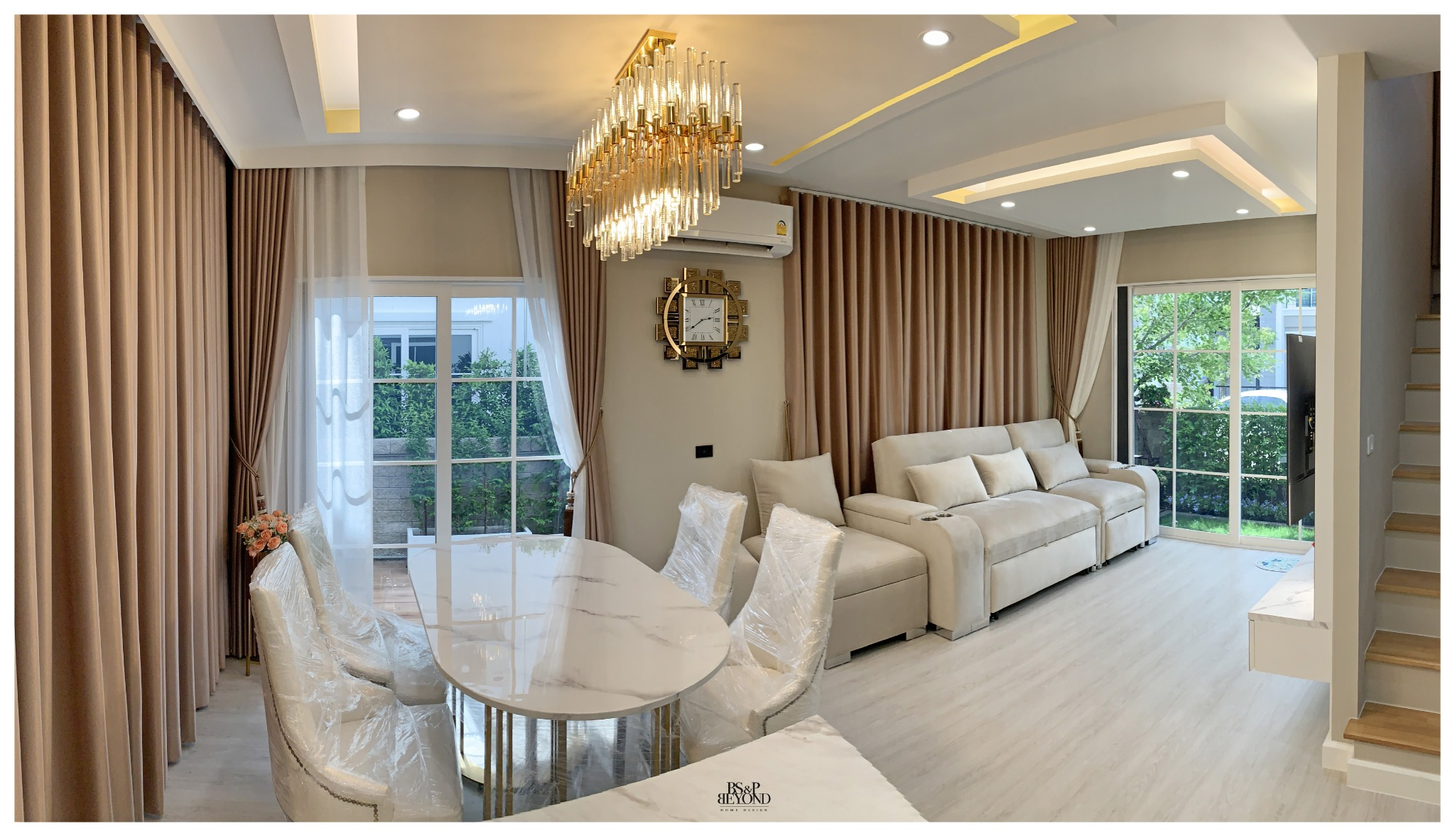
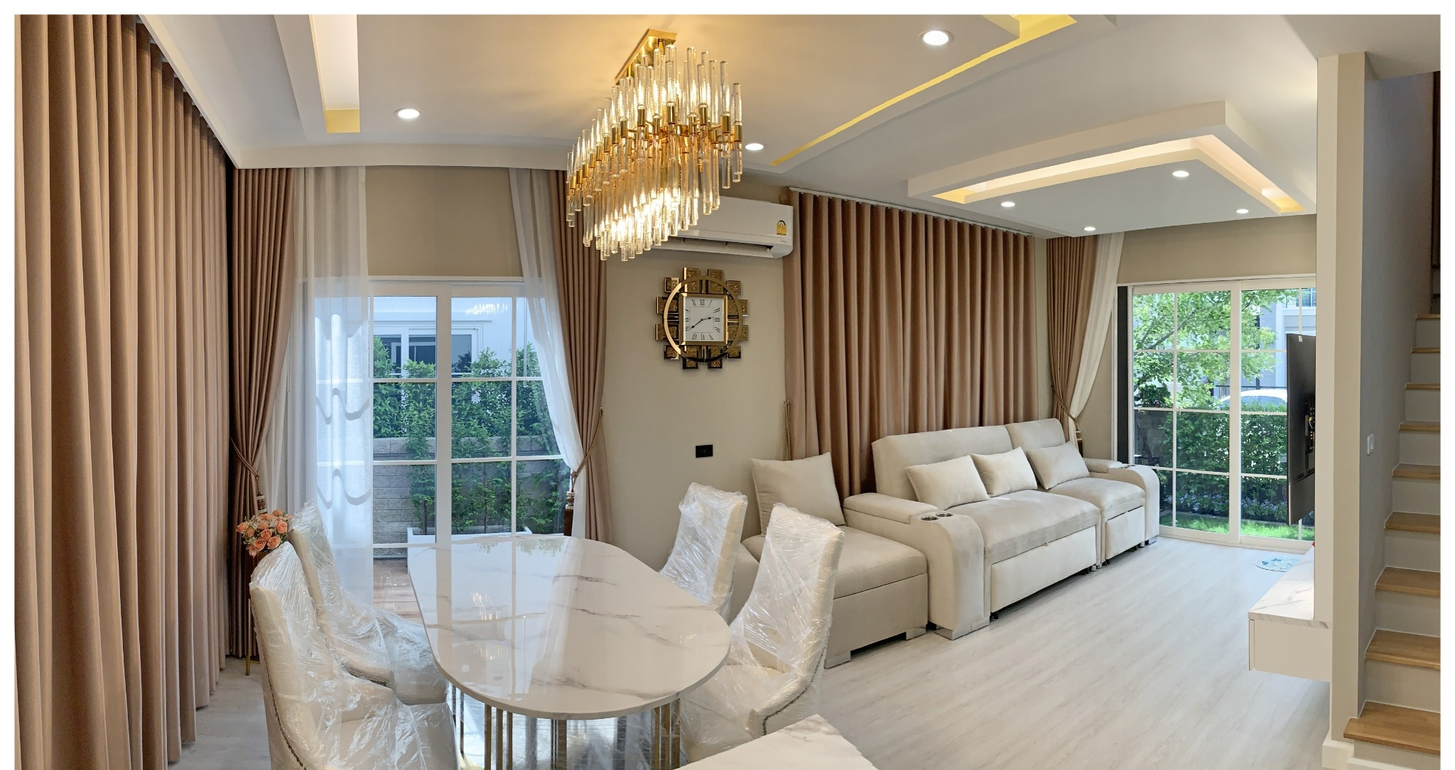
Update fonts and subtle motion

diff --git a/app/page.tsx b/app/page.tsx
@@ -1,15 +1,33 @@
 "use client";
-import Image from "next/image"; import {useState} from "react";
+import Image from "next/image"; import {useEffect,useState} from "react";
 const copy={en:{heroBody:"One point of contact. One coordinated process.",heroDetail:"We coordinate planning, design development, construction, renovation and built-in work through to a ready-to-use handover.",transformLead:"Attention in every step, toward a space that works beautifully for you.",servicesLead:"Integrated services for spaces that work in real life.",attentionLead:"The quality of a finished space begins with attention at every stage.",ctaBody:"New home, renovation or commercial space — we coordinate each stage to create a space that works for your needs and lifestyle."},th:{heroBody:"ออกแบบและรับเหมาก่อสร้างแบบครบวงจร",heroDetail:"ตั้งแต่การวางแนวคิด ออกแบบ ก่อสร้าง ตกแต่ง รวมถึงการควบคุมงานก่อสร้างและรีโนเวท ไปจนถึงการส่งมอบพื้นที่พร้อมใช้งาน",transformLead:"ใส่ใจในทุกขั้นตอน เพื่อพื้นที่ที่สมบูรณ์ในแบบของคุณ",servicesLead:"บริการครบวงจร เพื่อให้พื้นที่ที่ตอบโจทย์การใช้งานจริง",attentionLead:"ใส่ใจในรายละเอียดของงาน เพราะคุณภาพของพื้นที่ที่เสร็จสมบูรณ์ เริ่มจากความใส่ใจในทุกขั้นตอน",ctaBody:"บ้านใหม่ ปรับปรุงพื้นที่เดิม หรือพื้นที่สำหรับธุรกิจ เราพร้อมดูแลและประสานงานในทุกขั้นตอน เพื่อให้คุณได้พื้นที่ที่ตอบโจทย์การใช้งานและไลฟ์สไตล์"}};
 const transform=[["UNDERSTAND","Space · Needs · Budget","เข้าใจพื้นที่ ความต้องการ และงบประมาณ","/images/transform-understand.jpg"],["PLAN & DESIGN","Planning · Design · Material","วางแผน ออกแบบ และเลือกวัสดุ","/images/transform-plan-design.jpg"],["BUILD","Renovation · Construction · Built-in","งานปรับปรุง ก่อสร้าง และ Built-in","/images/transform-build.jpg"],["COMPLETE","Installation · Review · Handover","ติดตั้ง ตรวจสอบ และส่งมอบ","/images/transform-complete.jpg"]];
 const projects=[["RESIDENTIAL · NEW HOME","New Home","Interior & Built-in","/images/project-new-home.jpg"],["RESIDENTIAL · RENOVATION","Home Renovation","Interior & Built-in","/images/project-renovation.jpg"],["COMMERCIAL","OFFICE / RETAIL SPACES","Renovation & Built-in","/images/project-commercial-clean.jpg"]];
 const services=[["Interior Design","ออกแบบและวางผังการใช้งานพื้นที่ให้ตอบโจทย์การใช้งานจริง และสะท้อนถึงสไตล์ ภาพลักษณ์ และความต้องการของเจ้าของโครงการหรือเจ้าของธุรกิจ เพื่อให้พื้นที่สามารถทำงานร่วมกับผู้ใช้งานได้อย่างมีประสิทธิภาพสูงสุด"],["Renovation & Construction","งานปรับปรุง ต่อเติม และรีโนเวทพื้นที่เดิมให้เหมาะกับการใช้งานใหม่ พร้อมประเมินสภาพพื้นที่และขอบเขตงาน เพื่อวางแผนงบประมาณให้สอดคล้องกับความต้องการ"],["Built-in Furniture","งานผลิตและติดตั้งเฟอร์นิเจอร์ Built-in ตามแบบและการใช้งานจริง โดยให้ความสำคัญกับรายละเอียด วัสดุ การผลิต และคุณภาพของงานติดตั้ง"],["M&E Services","บริการออกแบบ ติดตั้ง และบริหารระบบไฟฟ้า ระบบประปา ระบบปรับอากาศ และงานระบบที่เกี่ยวข้อง ให้เหมาะสมกับขนาดและรูปแบบของโครงการ พร้อมคำนึงถึงมาตรฐานความปลอดภัย"],["Project Management","ดูแลและประสานงานโครงการ ทั้งขอบเขตงาน งบประมาณ ระยะเวลา และคุณภาพ พร้อมติดตามและรายงานความคืบหน้า เพื่อให้เจ้าของโครงการเห็นภาพและสถานะของงานตลอดโครงการ"]];
 function Icon({type}:{type:"facebook"|"line"|"phone"|"email"}){if(type==="phone")return <svg viewBox="0 0 24 24"><path d="M6.6 10.8c1.7 3.3 3.3 4.9 6.6 6.6l2.2-2.2c.3-.3.7-.4 1.1-.3 1.2.4 2.5.6 3.8.6.6 0 1 .4 1 1V20c0 .6-.4 1-1 1C10.8 21 3 13.2 3 3.7c0-.6.4-1 1-1h3.5c.6 0 1 .4 1 1 0 1.3.2 2.6.6 3.8.1.4 0 .8-.3 1.1l-2.2 2.2z"/></svg>; if(type==="email")return <svg viewBox="0 0 24 24"><path d="M3 5h18v14H3V5zm9 8L5 8v9h14V8l-7 5zm0-2 7-5H5l7 5z"/></svg>; if(type==="facebook")return <svg viewBox="0 0 24 24"><path d="M13.5 21v-8h2.7l.4-3h-3.1V8.1c0-.9.2-1.5 1.6-1.5h1.7V4c-.3 0-1.3-.1-2.5-.1-2.5 0-4.2 1.5-4.2 4.3V10H7.3v3h2.8v8h3.4z"/></svg>; return <span className="lineBadge">LINE</span>}
-export default function Home(){const[lang,setLang]=useState<"en"|"th">("en"); const t=copy[lang]; return <main><header className="siteHeader"><a className="brand" href="#top"><Image src="/logo/muck-logo.png" alt="MUCK Design" width={120} height={70} priority/></a><nav><a href="#projects">Projects</a><a href="#services">Services</a><a href="#process">How We Work</a><a href="#about">About</a><a href="#contact">Contact</a></nav><div className="headerActions"><button className="lang" onClick={()=>setLang(lang==="en"?"th":"en")}>{lang==="en"?"TH | EN":"EN | TH"}</button><a className="contactBtn" href="#contact">CONTACT US →</a></div></header>
-<section className="hero" id="top"><div className="heroCopy"><p className="eyebrow">RESIDENTIAL & COMMERCIAL</p><h1>FROM SPACE<br/>TO LIVING.</h1><p className="serviceLine">Turnkey Services · Renovation · Built-in</p><p className="heroStrong">{t.heroBody}</p><p className="heroDetail">{t.heroDetail}</p><a className="solidBtn" href="#projects">EXPLORE PROJECTS</a></div><div className="heroImage"><Image src="/images/hero-residential.jpg" alt="Completed MUCK Design residential project" fill priority sizes="(max-width:900px) 100vw, 70vw"/><span className="tagline">The Path to Better Living</span></div></section>
-<section className="section" id="process"><div className="sectionTitleRow"><h2>How We Transform Space <span>: Perfection in Every Step</span></h2><i/></div><p className="lead">{t.transformLead}</p><div className="transformGrid">{transform.map(([a,b,c,d])=><article key={a}><div className="imageBox processImage"><Image src={d} alt={a} fill/></div><h3>{a}</h3><p>{b}</p>{lang==="th"&&<p className="thai">{c}</p>}</article>)}</div></section>
-<section className="section soft" id="projects"><div className="sectionTitleRow"><h2>Selected Projects</h2><i/><a href="#projects">VIEW ALL PROJECTS →</a></div><div className="projectGrid">{projects.map(([a,b,c,d])=><article key={b}><div className="imageBox projectImage"><Image src={d} alt={b} fill/></div><p className="category">{a}</p><h3>{b}</h3><p>{c}</p></article>)}</div></section>
-<section className="section" id="services"><div className="sectionTitleRow"><h2>Our Services</h2><i/></div><p className="lead">{t.servicesLead}</p><div className="servicesLayout"><div className="serviceList">{services.map(([a,b])=><div className="serviceRow" key={a}><strong>{a}</strong><p>{lang==="th"?b:""}</p><span>→</span></div>)}</div><div className="turnkey"><Image src="/images/service-turnkey.jpg" alt="Turnkey services interior" fill/><div className="turnkeyText"><h3>TURNKEY SERVICES</h3><p>One coordinated process across design, renovation, built-in, M&amp;E and project management.</p></div></div></div></section>
-<section className="section soft" id="about"><div className="attentionHeader"><h2>Built With Attention</h2><p>{t.attentionLead}</p></div><div className="attentionGrid">{[["MATERIAL","การเลือกวัสดุ","/images/attention-material.jpg"],["CRAFTSMANSHIP","รายละเอียดงานและการผลิต","/images/attention-craftsmanship.jpg"],["ON SITE","การควบคุมและประสานงานหน้างาน","/images/attention-onsite.jpg"],["FINISHING","การตรวจสอบรายละเอียดก่อนส่งมอบ","/images/attention-finishing.jpg"]].map(([a,b,c])=><article key={a}><div className="imageBox attentionImage"><Image src={c} alt={a} fill/></div><h3>{a}</h3>{lang==="th"&&<p className="thai">{b}</p>}</article>)}</div></section>
-<section className="cta" id="contact"><div className="ctaImage"><Image src="/images/cta-bedroom.png" alt="Completed MUCK Design bedroom" fill/></div><div className="ctaCopy"><h2>LET’S CREATE<br/>A SPACE THAT WORKS FOR YOU</h2><p>{t.ctaBody}</p><a href="https://lin.ee/xMvkeiO" target="_blank" rel="noreferrer" className="solidBtn">TALK TO MUCK DESIGN</a><div className="contactStrip"><a href="https://lin.ee/xMvkeiO" target="_blank" rel="noreferrer"><Icon type="line"/><span>LINE</span></a><a href="tel:+66966289516"><Icon type="phone"/><span>096-6289-516</span></a><a href="tel:+66632179355"><Icon type="phone"/><span>063-2179-355</span></a><a href="mailto:muckdesignteam@gmail.com"><Icon type="email"/><span>Email</span></a></div></div></section>
+export default function Home(){
+const[lang,setLang]=useState<"en"|"th">("th");
+const t=copy[lang];
+
+useEffect(()=>{
+  const nodes = Array.from(document.querySelectorAll<HTMLElement>("[data-reveal]"));
+  const observer = new IntersectionObserver((entries)=>{
+    entries.forEach((entry)=>{
+      if(entry.isIntersecting){
+        (entry.target as HTMLElement).classList.add("is-visible");
+        observer.unobserve(entry.target);
+      }
+    });
+  },{threshold:0.12,rootMargin:"0px 0px -8% 0px"});
+  nodes.forEach((node)=>observer.observe(node));
+  return ()=>observer.disconnect();
+},[]);
+
+return <main><header className="siteHeader"><a className="brand" href="#top"><Image src="/logo/muck-logo.png" alt="MUCK Design" width={120} height={70} priority/></a><nav><a href="#projects">Projects</a><a href="#services">Services</a><a href="#process">How We Work</a><a href="#about">About</a><a href="#contact">Contact</a></nav><div className="headerActions"><button className="lang" onClick={()=>setLang(lang==="en"?"th":"en")}>{lang==="en"?"TH | EN":"EN | TH"}</button><a className="contactBtn" href="#contact">CONTACT US →</a></div></header>
+<section className="hero" id="top"><div className="heroCopy reveal" data-reveal><p className="eyebrow">RESIDENTIAL & COMMERCIAL</p><h1>FROM SPACE<br/>TO LIVING.</h1><p className="serviceLine">Turnkey Services · Renovation · Built-in</p><p className="heroStrong">{t.heroBody}</p><p className="heroDetail">{t.heroDetail}</p><a className="solidBtn" href="#projects">EXPLORE PROJECTS</a></div><div className="heroImage reveal" data-reveal><Image src="/images/hero-residential.jpg" alt="Completed MUCK Design residential project" fill priority sizes="(max-width:900px) 100vw, 70vw"/><span className="tagline">The Path to Better Living</span></div></section>
+<section className="section reveal" id="process" data-reveal><div className="sectionTitleRow"><h2>How We Transform Space <span>: Perfection in Every Step</span></h2><i/></div><p className="lead">{t.transformLead}</p><div className="transformGrid">{transform.map(([a,b,c,d])=><article className="motionCard" key={a}><div className="imageBox processImage"><Image src={d} alt={a} fill/></div><h3>{a}</h3><p>{b}</p>{lang==="th"&&<p className="thai">{c}</p>}</article>)}</div></section>
+<section className="section soft reveal" id="projects" data-reveal><div className="sectionTitleRow"><h2>Selected Projects</h2><i/><a href="#projects">VIEW ALL PROJECTS →</a></div><div className="projectGrid">{projects.map(([a,b,c,d])=><article className="motionCard" key={b}><div className="imageBox projectImage"><Image src={d} alt={b} fill/></div><p className="category">{a}</p><h3>{b}</h3><p>{c}</p></article>)}</div></section>
+<section className="section reveal" id="services" data-reveal><div className="sectionTitleRow"><h2>Our Services</h2><i/></div><p className="lead">{t.servicesLead}</p><div className="servicesLayout"><div className="serviceList">{services.map(([a,b])=><div className="serviceRow" key={a}><strong>{a}</strong><p>{lang==="th"?b:""}</p><span>→</span></div>)}</div><div className="turnkey"><Image src="/images/service-turnkey.jpg" alt="Turnkey services interior" fill/><div className="turnkeyText"><h3>TURNKEY SERVICES</h3><p>One coordinated process across design, renovation, built-in, M&amp;E and project management.</p></div></div></div></section>
+<section className="section soft reveal" id="about" data-reveal><div className="attentionHeader"><h2>Built With Attention</h2><p>{t.attentionLead}</p></div><div className="attentionGrid">{[["MATERIAL","การเลือกวัสดุ","/images/attention-material.jpg"],["CRAFTSMANSHIP","รายละเอียดงานและการผลิต","/images/attention-craftsmanship.jpg"],["ON SITE","การควบคุมและประสานงานหน้างาน","/images/attention-onsite.jpg"],["FINISHING","การตรวจสอบรายละเอียดก่อนส่งมอบ","/images/attention-finishing.jpg"]].map(([a,b,c])=><article className="motionCard" key={a}><div className="imageBox attentionImage"><Image src={c} alt={a} fill/></div><h3>{a}</h3>{lang==="th"&&<p className="thai">{b}</p>}</article>)}</div></section>
+<section className="cta reveal" id="contact" data-reveal><div className="ctaImage"><Image src="/images/cta-bedroom.png" alt="Completed MUCK Design bedroom" fill/></div><div className="ctaCopy"><h2>LET’S CREATE<br/>A SPACE THAT WORKS FOR YOU</h2><p>{t.ctaBody}</p><a href="https://lin.ee/xMvkeiO" target="_blank" rel="noreferrer" className="solidBtn">TALK TO MUCK DESIGN</a><div className="contactStrip"><a href="https://lin.ee/xMvkeiO" target="_blank" rel="noreferrer"><Icon type="line"/><span>LINE</span></a><a href="tel:+66966289516"><Icon type="phone"/><span>096-6289-516</span></a><a href="tel:+66632179355"><Icon type="phone"/><span>063-2179-355</span></a><a href="mailto:muckdesignteam@gmail.com"><Icon type="email"/><span>Email</span></a></div></div></section>
 <footer><div><span>Muck Design by BS&amp;P Beyond Home Design Co.,Ltd.</span><span>:</span><span>The Path to Better Living</span></div><div className="socials"><a href="https://www.facebook.com/61581893797548/" target="_blank" rel="noreferrer"><Icon type="facebook"/></a><a href="https://lin.ee/xMvkeiO" target="_blank" rel="noreferrer"><Icon type="line"/></a><a href="tel:+66966289516"><Icon type="phone"/></a><a href="mailto:muckdesignteam@gmail.com"><Icon type="email"/></a></div></footer></main>}

diff --git a/app/globals.css b/app/globals.css
@@ -1,1 +1,60 @@
-:root{--paper:#fbfaf7;--cream:#f5f1e8;--ink:#1e1e1c;--muted:#777168;--line:#d8d2c8}*{box-sizing:border-box}html{scroll-behavior:smooth}body{margin:0;background:var(--paper);color:var(--ink);font-family:Arial,"Noto Sans Thai",sans-serif;line-height:1.45}a{text-decoration:none;color:inherit}img{object-fit:cover}.siteHeader{height:86px;display:grid;grid-template-columns:170px 1fr auto;align-items:center;padding:0 5.2vw;background:rgba(251,250,247,.97);position:sticky;top:0;z-index:10;border-bottom:1px solid var(--line)}.brand img{object-fit:contain}nav{display:flex;justify-content:center;gap:34px;font-size:13px}.headerActions{display:flex;align-items:center;gap:14px}.lang{border:0;background:none;cursor:pointer}.contactBtn{background:#1d1d1c;color:#fff;padding:15px 20px;font-size:12px}.hero{display:grid;grid-template-columns:31% 69%;min-height:590px}.heroCopy{padding:70px 4.8vw 55px}.eyebrow,.category{font-size:11px;letter-spacing:.08em}.hero h1{font-size:clamp(50px,5.5vw,86px);line-height:.95;letter-spacing:-.045em;margin:14px 0 22px}.serviceLine{font-size:17px}.heroStrong{margin-top:26px;font-weight:700}.heroDetail{font-size:14px;color:#555;max-width:440px}.solidBtn{display:inline-block;background:#1d1d1c;color:#fff;padding:14px 22px;margin-top:16px;font-size:12px}.heroImage{position:relative;min-height:590px;overflow:hidden}.tagline{position:absolute;right:26px;bottom:24px;color:white;font-style:italic;font-size:20px;text-shadow:0 1px 6px rgba(0,0,0,.45)}.section{padding:54px 4vw}.soft{background:#faf8f3}.sectionTitleRow{display:flex;align-items:center;gap:16px}.sectionTitleRow h2,.attentionHeader h2{font-size:clamp(30px,3.1vw,48px);margin:0;font-weight:500}.sectionTitleRow h2 span{font-weight:300}.sectionTitleRow i{height:1px;background:#999;flex:1}.sectionTitleRow>a{font-size:11px;white-space:nowrap}.lead{margin:6px 0 28px;color:#59564f}.transformGrid,.attentionGrid{display:grid;grid-template-columns:repeat(4,1fr);gap:16px}.imageBox{position:relative;overflow:hidden;background:#ddd}.processImage{aspect-ratio:1.72/1}.transformGrid h3,.attentionGrid h3,.projectGrid h3{margin:10px 0 2px;font-size:16px}.transformGrid p,.attentionGrid p,.projectGrid p{margin:2px 0;color:#6e6961;font-size:13px}.thai{font-size:13px!important}.projectGrid{display:grid;grid-template-columns:repeat(3,1fr);gap:20px;margin-top:20px}.projectImage{aspect-ratio:2.1/1}.projectGrid .category{margin-top:8px;font-size:10px}.servicesLayout{display:grid;grid-template-columns:56% 44%;gap:20px;margin-top:22px}.serviceRow{display:grid;grid-template-columns:180px 1fr 24px;gap:14px;align-items:start;padding:14px 0;border-bottom:1px solid var(--line)}.serviceRow strong{font-size:15px}.serviceRow p{margin:0;font-size:12px;color:#777}.turnkey{position:relative;min-height:360px;overflow:hidden}.turnkeyText{position:absolute;left:0;right:0;bottom:0;color:white;padding:24px;background:linear-gradient(transparent,rgba(0,0,0,.82))}.turnkeyText h3{font-size:27px;margin:0}.turnkeyText p{margin:3px 0}.attentionHeader{display:grid;grid-template-columns:auto 1fr;align-items:end;gap:25px;margin-bottom:14px}.attentionHeader p{margin:0;max-width:520px}.attentionImage{aspect-ratio:2.9/1}.cta{display:grid;grid-template-columns:50% 50%;background:#f7f4ee}.ctaImage{position:relative;min-height:350px;overflow:hidden}.ctaCopy{padding:34px 4vw}.ctaCopy h2{font-size:30px;line-height:1.05;margin:0 0 12px}.contactStrip{display:flex;flex-wrap:wrap;gap:18px;margin-top:24px;align-items:center}.contactStrip a{display:flex;align-items:center;gap:7px;font-size:13px}.contactStrip svg,.socials svg{width:24px;height:24px;fill:currentColor}.lineBadge{display:inline-flex;align-items:center;justify-content:center;width:34px;height:22px;background:#111;color:#fff;border-radius:14px;font-size:8px;font-weight:700}footer{background:#181818;color:white;display:flex;justify-content:space-between;gap:28px;align-items:center;padding:26px 4vw;font-size:13px}footer>div:first-child{display:flex;gap:10px;flex-wrap:wrap}.socials{display:flex;gap:16px;align-items:center}.socials a{display:flex;align-items:center;justify-content:center}@media(max-width:900px){.siteHeader{grid-template-columns:140px 1fr}nav{display:none}.contactBtn{display:none}.hero{grid-template-columns:1fr}.heroImage{min-height:440px}.heroCopy{padding:54px 24px}.transformGrid,.attentionGrid{grid-template-columns:repeat(2,1fr)}.projectGrid{grid-template-columns:1fr}.servicesLayout{grid-template-columns:1fr}.turnkey{min-height:360px}.cta{grid-template-columns:1fr}.ctaImage{min-height:390px}.attentionHeader{grid-template-columns:1fr}}@media(max-width:520px){.siteHeader{height:76px;padding:0 18px}.brand img{width:95px;height:auto}.section{padding:44px 18px}.hero h1{font-size:50px}.transformGrid,.attentionGrid{grid-template-columns:1fr}.serviceRow{grid-template-columns:1fr 24px}.serviceRow p{grid-column:1/3}footer{flex-direction:column;align-items:flex-start}}
+:root{--paper:#fbfaf7;--cream:#f5f1e8;--ink:#1e1e1c;--muted:#777168;--line:#d8d2c8}*{box-sizing:border-box}html{scroll-behavior:smooth}body{margin:0;background:var(--paper);color:var(--ink);font-family:var(--font-manrope),sans-serif;line-height:1.45}
+:lang(th),.thai{font-family:var(--font-ibm-plex-thai),var(--font-manrope),sans-serif}a{text-decoration:none;color:inherit}img{object-fit:cover}.siteHeader{height:86px;display:grid;grid-template-columns:170px 1fr auto;align-items:center;padding:0 5.2vw;background:rgba(251,250,247,.97);position:sticky;top:0;z-index:10;border-bottom:1px solid var(--line)}.brand img{object-fit:contain}nav{display:flex;justify-content:center;gap:34px;font-size:13px}.headerActions{display:flex;align-items:center;gap:14px}.lang{border:0;background:none;cursor:pointer}.contactBtn{background:#1d1d1c;color:#fff;padding:15px 20px;font-size:12px}.hero{display:grid;grid-template-columns:minmax(360px,36%) minmax(0,64%);align-items:center;background:var(--paper)}.heroCopy{padding:64px 4.2vw 60px;max-width:560px;justify-self:end;width:100%}.eyebrow,.category{font-size:11px;letter-spacing:.08em}.hero h1{font-size:clamp(50px,5vw,78px);line-height:.98;letter-spacing:-.035em;margin:16px 0 24px}.serviceLine{font-size:16px;line-height:1.55;margin:0 0 20px}.heroStrong{margin:28px 0 10px;font-weight:700;line-height:1.5}.heroDetail{font-size:14px;color:#555;max-width:470px;line-height:1.65;margin:0}.solidBtn{display:inline-block;background:#1d1d1c;color:#fff;padding:14px 22px;margin-top:16px;font-size:12px}.heroImage{position:relative;overflow:hidden;width:100%;align-self:center;background:#eee}.tagline{position:absolute;right:26px;bottom:24px;color:white;font-style:italic;font-size:20px;text-shadow:0 1px 6px rgba(0,0,0,.45)}.section{padding:54px 4vw}.soft{background:#faf8f3}.sectionTitleRow{display:flex;align-items:center;gap:16px}.sectionTitleRow h2,.attentionHeader h2{font-size:clamp(30px,3.1vw,48px);margin:0;font-weight:500}.sectionTitleRow h2 span{font-weight:300}.sectionTitleRow i{height:1px;background:#999;flex:1}.sectionTitleRow>a{font-size:11px;white-space:nowrap}.lead{margin:6px 0 28px;color:#59564f}.transformGrid,.attentionGrid{display:grid;grid-template-columns:repeat(4,1fr);gap:16px}.imageBox{position:relative;overflow:hidden;background:#ddd}.processImage{aspect-ratio:1.72/1}.transformGrid h3,.attentionGrid h3,.projectGrid h3{margin:10px 0 4px;font-size:16px;line-height:1.3}.transformGrid p,.attentionGrid p,.projectGrid p{margin:2px 0;color:#6e6961;font-size:13px;line-height:1.45}.thai{font-size:13px!important}.projectGrid{display:grid;grid-template-columns:repeat(3,minmax(0,1fr));gap:24px;margin-top:24px;align-items:start}.projectImage{aspect-ratio:16/9}.projectGrid .category{margin-top:12px;font-size:10px;letter-spacing:.08em}.servicesLayout{display:grid;grid-template-columns:56% 44%;gap:20px;margin-top:22px}.serviceRow{display:grid;grid-template-columns:180px 1fr 24px;gap:14px;align-items:start;padding:14px 0;border-bottom:1px solid var(--line)}.serviceRow strong{font-size:15px}.serviceRow p{margin:0;font-size:12px;color:#777}.turnkey{position:relative;min-height:360px;overflow:hidden}.turnkeyText{position:absolute;left:0;right:0;bottom:0;color:white;padding:24px;background:linear-gradient(transparent,rgba(0,0,0,.82))}.turnkeyText h3{font-size:27px;margin:0}.turnkeyText p{margin:3px 0}.attentionHeader{display:grid;grid-template-columns:auto 1fr;align-items:end;gap:25px;margin-bottom:14px}.attentionHeader p{margin:0;max-width:520px}.attentionImage{aspect-ratio:2.9/1}.cta{display:grid;grid-template-columns:50% 50%;background:#f7f4ee}.ctaImage{position:relative;min-height:350px;overflow:hidden}.ctaCopy{padding:34px 4vw}.ctaCopy h2{font-size:30px;line-height:1.05;margin:0 0 12px}.contactStrip{display:flex;flex-wrap:wrap;gap:18px;margin-top:24px;align-items:center}.contactStrip a{display:flex;align-items:center;gap:7px;font-size:13px}.contactStrip svg,.socials svg{width:24px;height:24px;fill:currentColor}.lineBadge{display:inline-flex;align-items:center;justify-content:center;width:34px;height:22px;background:#111;color:#fff;border-radius:14px;font-size:8px;font-weight:700}footer{background:#181818;color:white;display:flex;justify-content:space-between;gap:28px;align-items:center;padding:26px 4vw;font-size:13px}footer>div:first-child{display:flex;gap:10px;flex-wrap:wrap}.socials{display:flex;gap:16px;align-items:center}.socials a{display:flex;align-items:center;justify-content:center}@media(max-width:900px){.siteHeader{grid-template-columns:140px 1fr}nav{display:none}.contactBtn{display:none}.hero{grid-template-columns:1fr}.heroImage{min-height:0}.heroCopy{padding:48px 24px 34px;justify-self:stretch;max-width:none}.heroPhoto{width:100%;height:auto}.transformGrid,.attentionGrid{grid-template-columns:repeat(2,1fr)}.projectGrid{grid-template-columns:1fr}.servicesLayout{grid-template-columns:1fr}.turnkey{min-height:360px}.cta{grid-template-columns:1fr}.ctaImage{min-height:390px}.attentionHeader{grid-template-columns:1fr}}@media(max-width:520px){.siteHeader{height:76px;padding:0 18px}.brand img{width:95px;height:auto}.section{padding:44px 18px}.hero h1{font-size:44px;line-height:1.02}.serviceLine{font-size:15px}.transformGrid,.attentionGrid{grid-template-columns:1fr}.serviceRow{grid-template-columns:1fr 24px}.serviceRow p{grid-column:1/3}footer{flex-direction:column;align-items:flex-start}}
+.projectImage img{object-fit:cover!important;object-position:center!important;}
+
+/* V4 typography refinement */
+.hero h1,.sectionTitleRow h2,.attentionHeader h2,.ctaCopy h2,
+.transformGrid h3,.attentionGrid h3,.projectGrid h3,
+.serviceRow strong,.turnkeyText h3{
+  font-family:var(--font-manrope),sans-serif;
+}
+.heroStrong,.heroDetail,.lead,.serviceRow p,.thai,.ctaCopy p{
+  font-family:var(--font-ibm-plex-thai),var(--font-manrope),sans-serif;
+}
+.hero h1{font-weight:600}
+.sectionTitleRow h2,.attentionHeader h2{font-weight:500;letter-spacing:-.025em}
+.heroDetail,.lead,.serviceRow p,.thai{letter-spacing:0;word-spacing:.02em}
+.heroStrong{font-weight:600}
+
+/* restrained editorial motion */
+.reveal{
+  opacity:0;
+  transform:translateY(18px);
+  transition:opacity .75s cubic-bezier(.22,.61,.36,1),transform .75s cubic-bezier(.22,.61,.36,1);
+}
+.reveal.is-visible{
+  opacity:1;
+  transform:none;
+}
+.heroImage.reveal{
+  transform:scale(1.012);
+}
+.heroImage.reveal.is-visible{
+  transform:scale(1);
+}
+.heroImage img{
+  transition:transform 8s ease-out;
+}
+.heroImage.is-visible img{
+  transform:scale(1.018);
+}
+.motionCard .imageBox img{
+  transition:transform .55s cubic-bezier(.22,.61,.36,1),filter .4s ease;
+}
+.contactBtn,.solidBtn,.sectionTitleRow>a,.socials a,.contactStrip a{
+  transition:transform .28s ease,opacity .28s ease,background-color .28s ease,color .28s ease;
+}
+@media (hover:hover) and (pointer:fine){
+  .motionCard:hover .imageBox img{transform:scale(1.025)}
+  .contactBtn:hover,.solidBtn:hover{transform:translateY(-2px)}
+  .sectionTitleRow>a:hover,.contactStrip a:hover,.socials a:hover{opacity:.7}
+}
+@media (prefers-reduced-motion: reduce){
+  html{scroll-behavior:auto}
+  .reveal,.reveal.is-visible,.heroImage.reveal,.heroImage.reveal.is-visible{
+    opacity:1!important;transform:none!important;transition:none!important
+  }
+  .heroImage img,.motionCard .imageBox img,.contactBtn,.solidBtn,.sectionTitleRow>a,.socials a,.contactStrip a{
+    transition:none!important;transform:none!important
+  }
+}

diff --git a/app/layout.tsx b/app/layout.tsx
@@ -1,1 +1,29 @@
-import "./globals.css"; import type { Metadata } from "next"; export const metadata: Metadata={title:"MUCK Design | The Path to Better Living",description:"Turnkey interior design, renovation, construction and built-in services."}; export default function RootLayout({children}:{children:React.ReactNode}){return <html lang="en"><body>{children}</body></html>}
+import "./globals.css";
+import type { Metadata } from "next";
+import { Manrope, IBM_Plex_Sans_Thai } from "next/font/google";
+
+const manrope = Manrope({
+  subsets: ["latin"],
+  variable: "--font-manrope",
+  display: "swap",
+});
+
+const ibmPlexThai = IBM_Plex_Sans_Thai({
+  subsets: ["thai", "latin"],
+  weight: ["400", "500", "600"],
+  variable: "--font-ibm-plex-thai",
+  display: "swap",
+});
+
+export const metadata: Metadata = {
+  title: "MUCK Design | The Path to Better Living",
+  description: "Turnkey interior design, renovation, construction and built-in services.",
+};
+
+export default function RootLayout({ children }: { children: React.ReactNode }) {
+  return (
+    <html lang="th" className={`${manrope.variable} ${ibmPlexThai.variable}`}>
+      <body>{children}</body>
+    </html>
+  );
+}

diff --git a/README.md b/README.md
@@ -1,1 +1,20 @@
 MUCK Design Website v2 corrected locked build. Replace the existing app/ and public/ folders in your local GitHub repository, commit, and push. Vercel will auto-redeploy.
+
+## V3 corrections
+- Default language changed to Thai.
+- Hero photo now preserves its natural aspect ratio and no longer stretches.
+- Legacy BS&P watermark is excluded from the hero source crop.
+- Selected Project images use one consistent 16:9 frame.
+- Hero and project typography spacing refined.
+- Mobile hero typography reduced for better balance.
+
+
+## V4 updates
+- English font: Manrope.
+- Thai font: IBM Plex Sans Thai.
+- Website default language: Thai.
+- Subtle reveal-on-scroll motion.
+- Gentle hero image motion.
+- Refined hover motion on project/detail cards and buttons.
+- Motion is disabled automatically for users who prefer reduced motion.
+- Locked layout and image selections remain unchanged.
